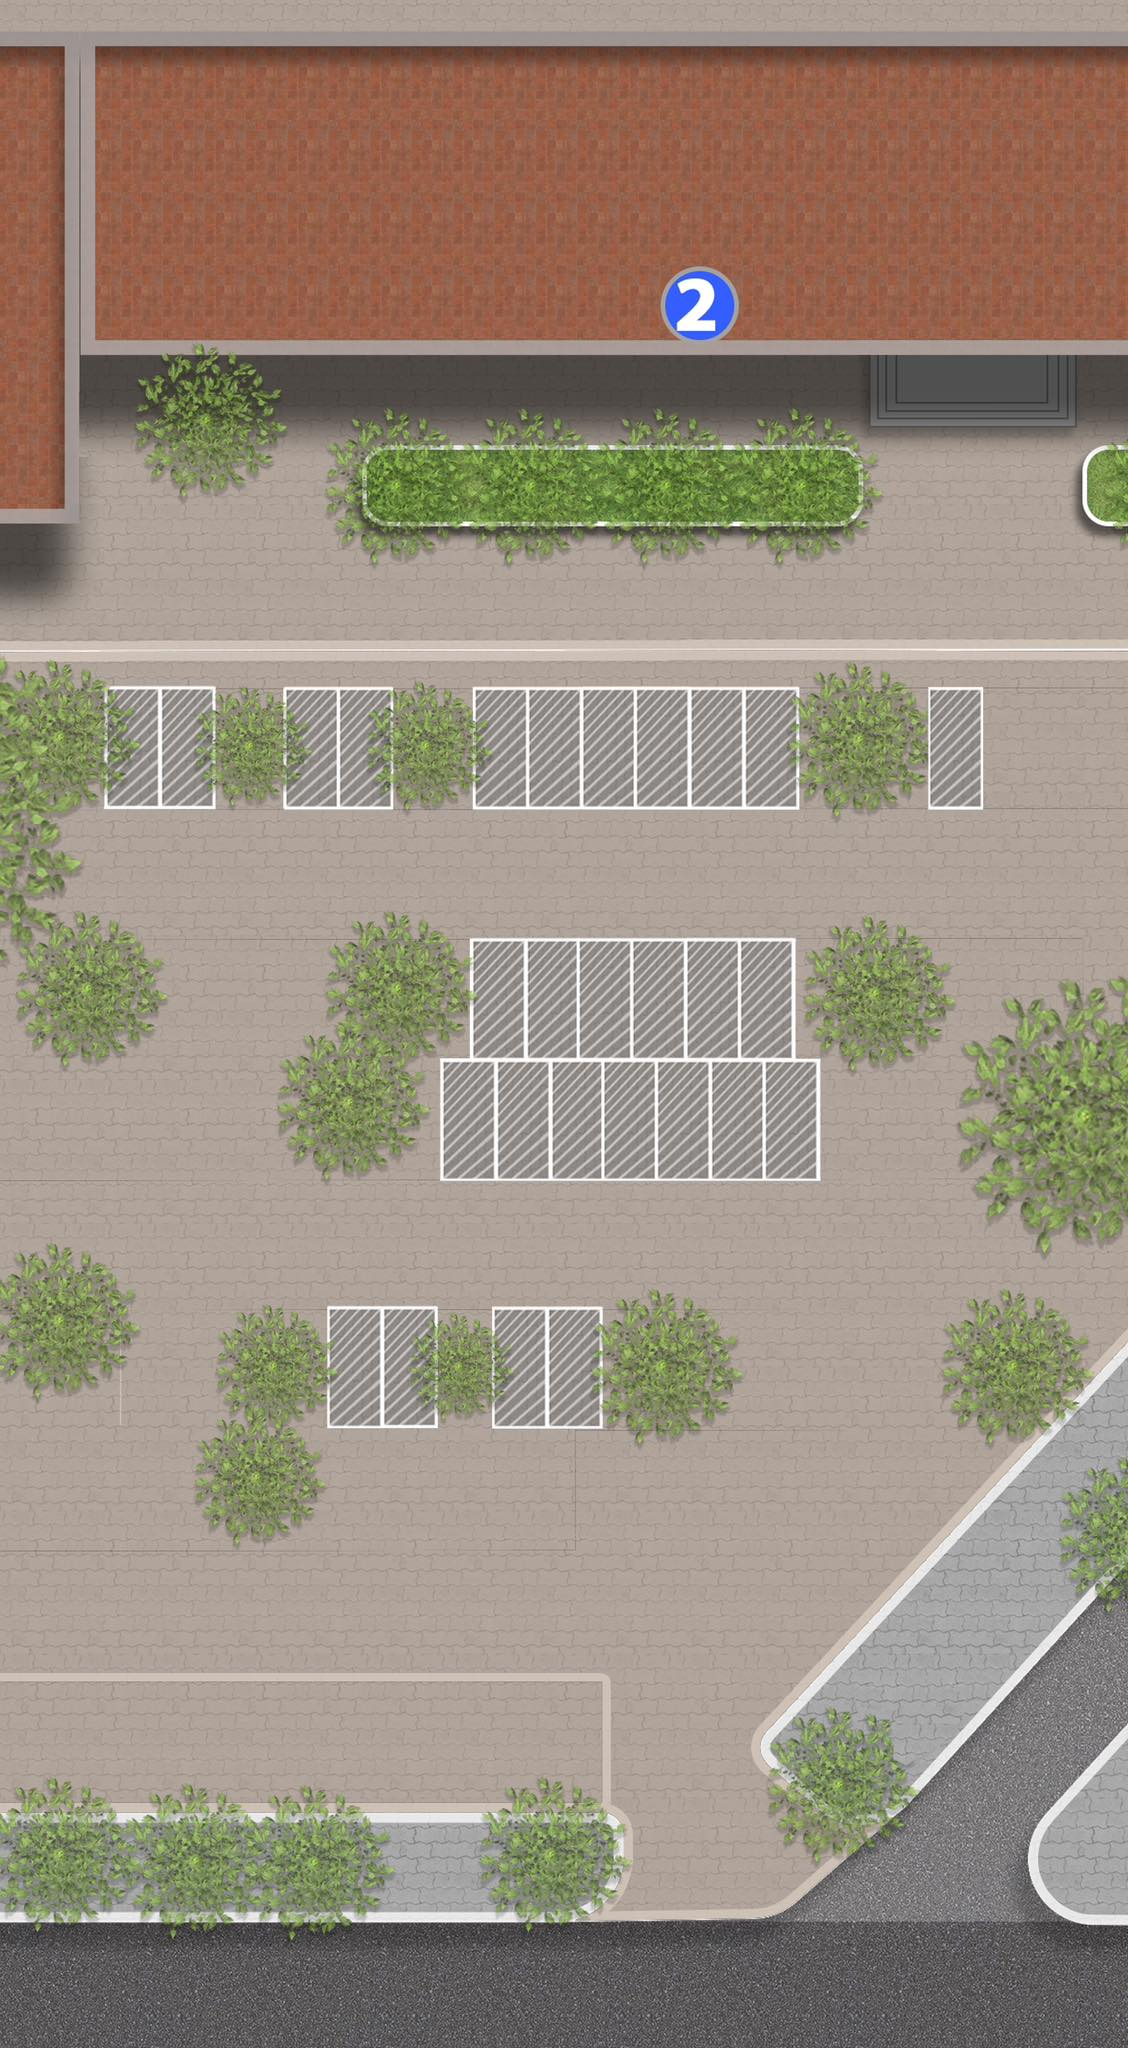
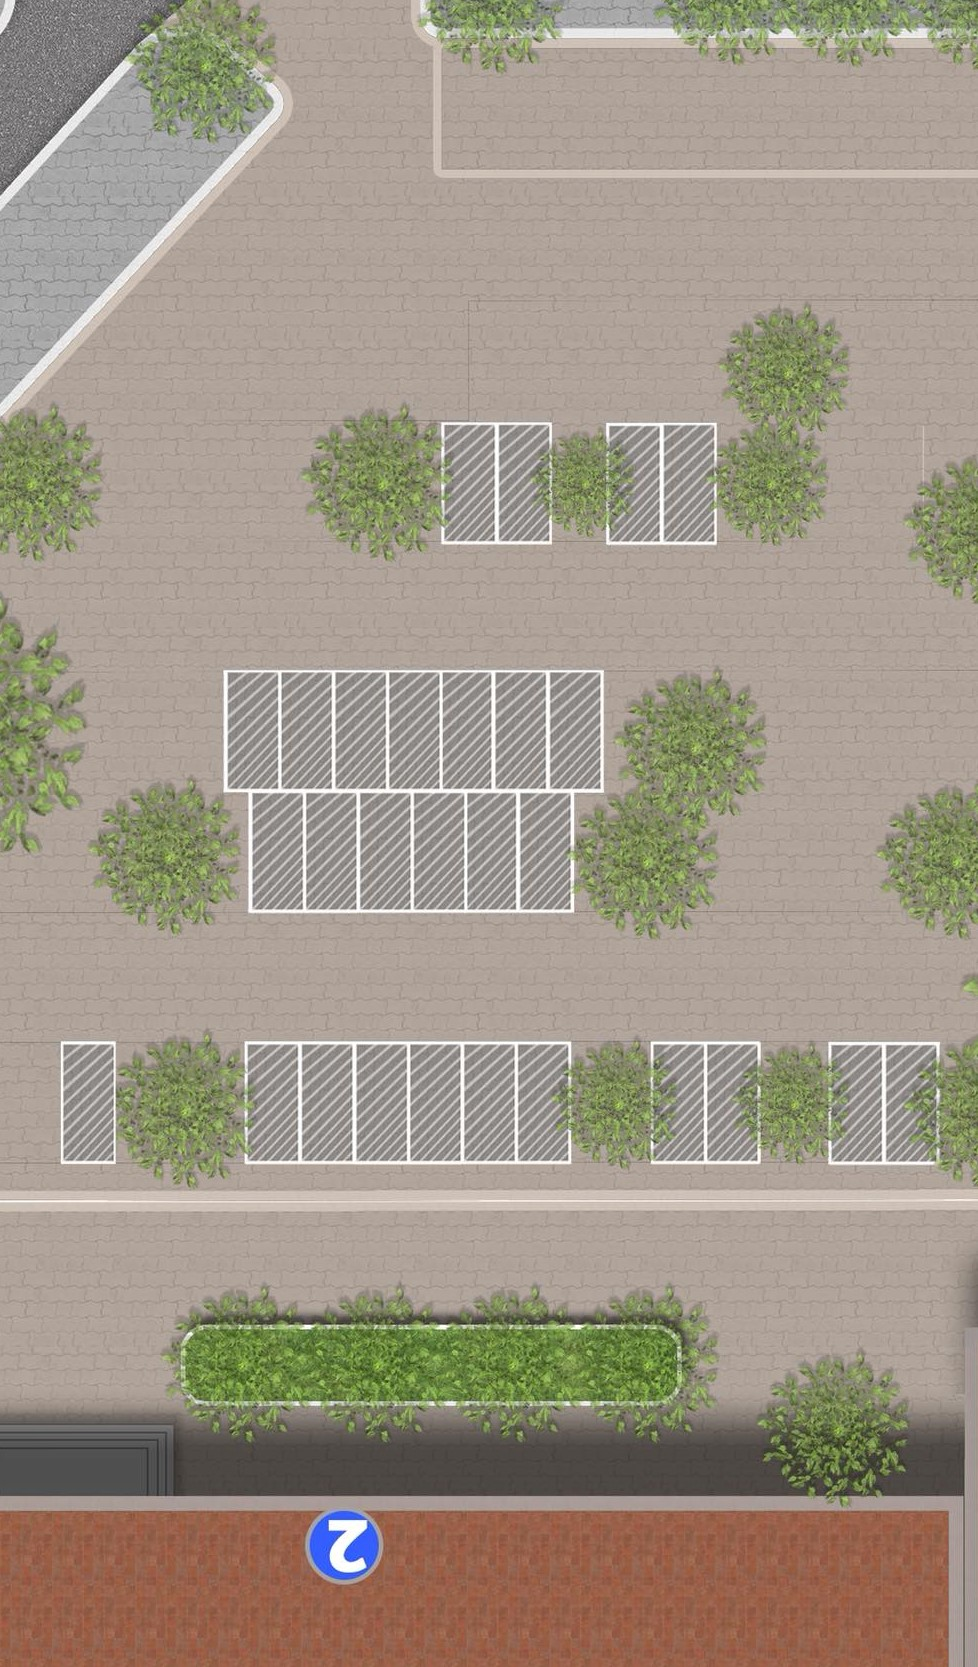
fix ui c9

diff --git a/src/assets/scss/_maps.scss b/src/assets/scss/_maps.scss
@@ -127,8 +127,8 @@
 // css for maps C9
 
 .box_C9 {
-    width: 32px;
-    height: 42px;
+    width: 38px;
+    height: 50px;
     z-index: 1;
     cursor: pointer;
     position: absolute;
@@ -140,95 +140,102 @@
 }
 
 .box_1 {
-    transform: translate(73px, 306px);
+    transform: translate(14px, 510px);
 }
 .box_2 {
-    transform: translate(108px, 306px);
+    transform: translate(52px, 510px);;
 }
 .box_3 {
-    transform: translate(185px, 306px);
+    transform: translate(185px, 510px);
 }
 .box_4 {
-    transform: translate(219px, 306px);
+    transform: translate(224px, 510px);
 }
 .box_5 {
-    transform: translate(302px, 306px);
+    transform: translate(263px, 510px);
 }
 .box_6 {
-    transform: translate(336px, 306px);
+    transform: translate(300px, 510px);
 }
 .box_7 {
-    transform: translate(370px, 306px);
+    transform: translate(339px, 510px);
 }
 .box_8 {
-    transform: translate(404px, 306px);
+    transform: translate(378px, 510px);
 }
 .box_9 {
-    transform: translate(437px, 306px);
+    transform: translate(474px, 510px);
 }
 .box_10 {
-    transform: translate(471px, 306px);
+    transform: translate(513px, 510px);
 }
 .box_11 {
-    transform: translate(585px, 306px);
+    transform: translate(602px, 510px);
 }
 .box_12 {
-    transform: translate(617px, 306px);
+    transform: translate(642px, 510px);
 }
 
 .box_13 {
-    transform: translate(302px, 392px);
+    transform: translate(187px, 404px);
 }
 .box_14 {
-    transform: translate(334px, 392px);
+    transform: translate(227px, 404px);
 }
 .box_15 {
-    transform: translate(367px, 392px);
+    transform: translate(265px, 404px);
 }
 .box_16 {
-    transform: translate(401px, 392px);
+    transform: translate(303px, 404px);
 }
 .box_17 {
-    transform: translate(435px, 392px);
+    transform: translate(342px, 404px);
 }
 .box_18 {
-    transform: translate(469px, 392px);
+    transform: translate(381px, 404px);
 }
 .box_19 {
-    transform: translate(282px, 433px);
+    transform: translate(169px, 353px);
 }
 .box_20 {
-    transform: translate(316px, 433px);
+    transform: translate(209px, 353px);
 }
 .box_21 {
-    transform: translate(350px, 433px);
+    transform: translate(247px, 353px);
 }
 .box_22 {
-    transform: translate(383px, 433px);
+    transform: translate(285px, 353px);
 }
 .box_23 {
-    transform: translate(416px, 433px);
+    transform: translate(324px, 353px);
 }
 .box_24 {
-    transform: translate(449px, 433px);
+    transform: translate(362px, 353px);
 }
 .box_25 {
-    transform: translate(483px, 433px);
+    transform: translate(401px, 353px);
 }
 .box_26 {
-    transform: translate(212px, 518px);
+    transform: translate(325px, 249px);
 }
 .box_27 {
-    transform: translate(246px, 518px);
+    transform: translate(361px, 249px);
 }
 .box_28 {
-    transform: translate(314px, 518px);
+    transform: translate(443px, 249px);
 }
 .box_29 {
-    transform: translate(348px, 518px);
+    transform: translate(482px, 249px);
 }
 
 .icon__car__ver__C9 {
     transform: translate(7px, -7px);
     font-size: 17px;
+}
+
+.camera-css {
+    border-radius: 50%;
+    width: 50px;
+    height: 50px;
+    transform: translate(-479px, 618px);
 }

diff --git a/src/layouts/Dashboard/2D_maps_C9.jsx b/src/layouts/Dashboard/2D_maps_C9.jsx
@@ -5,7 +5,7 @@ import { Link } from 'react-router-dom';
 import moment from 'moment';
 import { getSlotOfFieldViewMin } from '../../apis/slotApi';
 import CarBannerImg from '../../assets/img/C9_2D.jpg';
-// import CarBannerImgShow from '../../assets/img/D3.jpg';
+import Camera from '../../assets/img/camera.png';
 import SlotFiledC9 from '../../components/SlotFiledC9';
 
 const Maps2D = () => {
@@ -43,6 +43,11 @@ const Maps2D = () => {
                   width: '700px',
                   height: '700px',
                 }}
+              />
+              <img
+                className="position-absolute camera-css"
+                src={Camera}
+                alt=""
               />
             </div>
             <div
